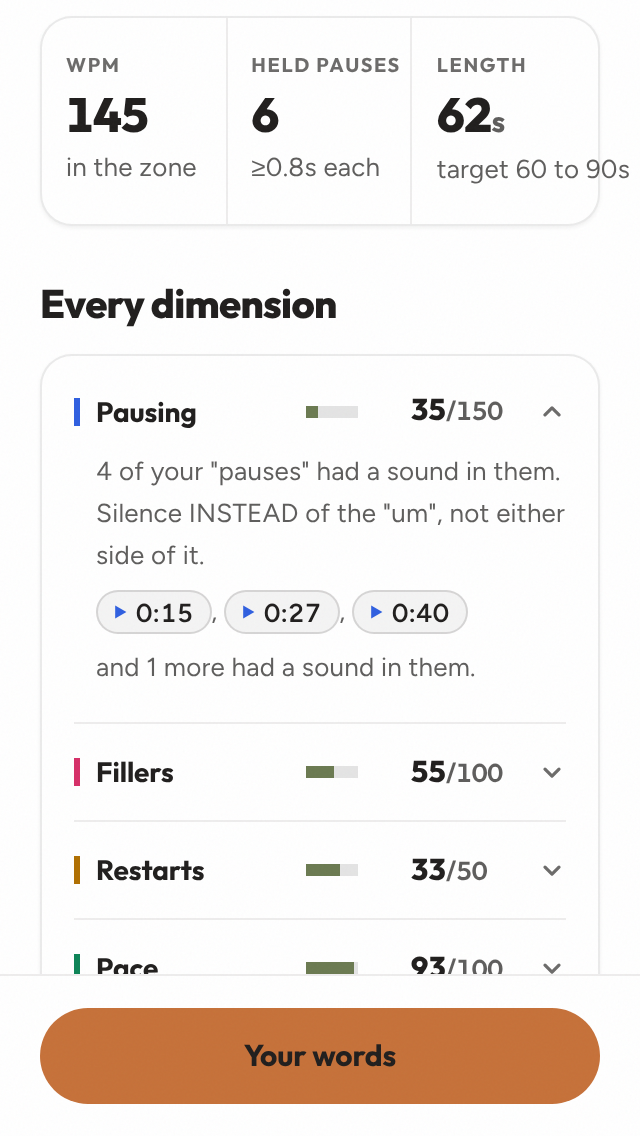
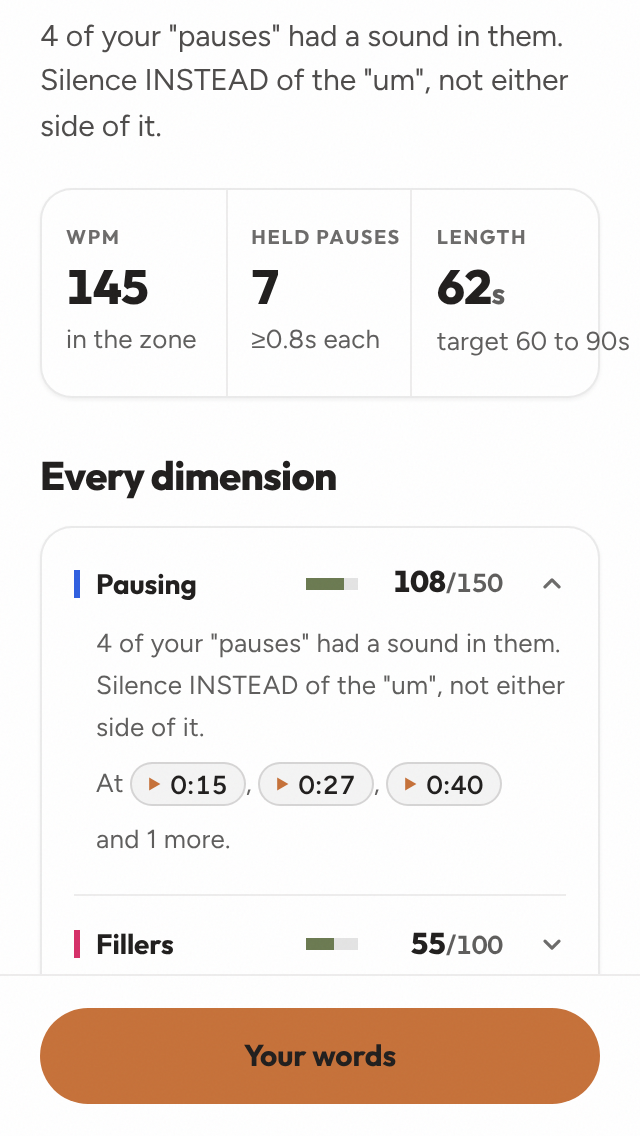
DECISIONS #424 amended for its review, and the before and after: three chips on one line at 320, 375 and 390, an 88s take's map, the glyph's colour
Claude-Session: https://claude.ai/code/session_01KQpi1wPL2sdqgKKvt94vrP

diff --git a/DECISIONS.md b/DECISIONS.md
@@ -781,7 +781,7 @@ The build had a critic and a fix round of 16 items. It passed 2478 tests and the
 
 423. 2026-11-06 · **The closing note is the take's last word** · Timothy, of the last results step: "Yes, fix it". The closing ("3 composed pauses", "Silence you chose, before a new point. That's the hard one.") stood 12px under "Records broken" in the same sage card and read as one more record. Every closing is now `ClosingNote` (`components/rep/ClosingNote.tsx`): no card, fill, edge or shadow, at a section's distance (mt-7) from the words or the records above and from Tomorrow below, centred like a sign-off under a 32x2 rule, the headline at 17/700 with its number at 24/800 in the colour of what it measured (`lib/closing-note.ts`): the trait's tone for a trait's reading (composed pauses in Pausing's, zero fillers in Fillers', words a minute in Pace's; `endNote` now names its trait), sage for an earned close (a streak, a level opened set whole as "Level 3", a game mastered, so the walk's peak keeps its weight without a card), the ink for a plain count, and the detail a sentence to a line. Records stay Moment's earned sage cards, with the cup where it applies; Moment loses its unused `emphasis`. The number reads `--tone`, the colour of the rule over it and of the trait's ring, not `--tone-ink`, whose dark value is near-white and left "3" reading as the page's ink; D05's registry names the number a measure and the rule a mark, and every tone holds 3:1 for 24px type on the ground in both themes (tested). It arrives with the step's own arrive-x, and reduced motion shows it at rest. This breaks #420's 12px for an ordinary closing on purpose, since there is no card left to stack. docs/refs has no Duolingo session end, so the references were Imprint's and Wellspoken's quiet: no container, type and one colour. Seen at 390x844 light and dark and 375x667 light for a daily take with records and without, a lesson practice, an unscored take and a Q&A round that opened level 3, with the strip into the step: docs/look/closing-card/. Ref: #420, #421, D05, DESIGN 6.
 
-424. 2026-11-07 · **The Pause row names the moments that had a sound in them, and each one plays** · Timothy, to the offer after #422: "sure". A filled pause now costs the Pause score (#422), so the row says where: under its detail, "0:15 and 0:40 had a sound in them." ("0:15 had a sound in it."; three as "0:15, 0:40 and 1:02"; past three, the first three and "and 2 more"), in the order they were said, the times as `pause-quality.ts`'s own clock writes them in each pause's note. `filledMoments` (lib/pause-quality.ts) reads them off the verdicts the take stored and showed: nothing is judged again and nothing is rescored, a stored recording's page names the moments its own stored pauses carry, and a row from before verdicts names none. A take with no filled pause reads exactly as before (its shots are pixel-identical). Each time is a chip that plays the take from a second before its pause to a second after it ends (`MOMENT_LEAD_S`, `MOMENT_TAIL_S`), and again stops it; while it plays its glyph is pause and its edge takes the tone. Playback is one element: the take's `<audio>` moved out of Hear it back into `useTakeAudio` (components/TakeAudio.tsx), held by the screen (the results walk, a stored recording, an upload), so the scrubber's key and chips, a word's "Said at" (#411) and the moments all play through it, a new play replaces the last, and leaving a step stops it, as leaving the words step always did; the scrubber follows the element's own play and pause events, so its key turns back when a moment stops itself. With no audio (a stored recording without its link, an upload not kept, a file that fails to load or decode) the times are plain semibold text, never dead buttons. The chip is Hear it back's chip grammar set in a sentence (surface, edge, ink, the play glyph in Pausing's tone; no terracotta fill, no sage), a 22px pill inside a 44px button whose padding the negative margins take back, so the line keeps its height and the text its size; the focus ring and the press are drawn on the pill, reduced motion drops the press's scale. A list's comma stays with its time and "and 1 more" holds together, balanced, so 320 breaks "0:15, 0:27, 0:40" over "and 1 more had a sound in them." Name: "Play 0:15, a pause with a sound in it", a toggle. Checked by ear in Chromium: on a stored take 0:15 (15.3s, 1.1s long) played from 14.3 and stopped at 17.4; 0:40 (40.2s, 1.4s) from 39.2 to 42.8; on a live 20s take 0:04 from 3.6 to 6.7, a step change mid-moment paused it, and Hear it back then played and seeked the same element (one `<audio>` on the page throughout); the upload page likewise. Seen at 390x844 light and dark and 375x667 light with two and four filled pauses, 320x568 with four, none, and a stored recording with audio, without it and with a broken file: docs/look/pause-moments/. Ref: #120, #121, #406, #411, #422.
+424. 2026-11-07 · **The Pause row names the moments that had a sound in them, and each one plays** · Timothy, to the offer after #422: "sure". A filled pause now costs the Pause score (#422), so the row says where: under its detail, "0:15 and 0:40 had a sound in them." ("0:15 had a sound in it."; three as "0:15, 0:40 and 1:02"; past three, the first three and "and 2 more"), in the order they were said, the times as `pause-quality.ts`'s own clock writes them in each pause's note. Where the detail above is the live results' filled headline, which already counts them ("2 of your "pauses" had a sound in them."), the row says only where, "At 0:15 and 0:40." (`saysFilled`), so it never says "had a sound in" twice; a stored recording's counts line and the dead-air headline keep the whole sentence. `filledMoments` (lib/pause-quality.ts) reads them off the verdicts the take stored and showed: nothing is judged again and nothing is rescored, a stored recording's page names the moments its own stored pauses carry, and a row from before verdicts names none. A take with no filled pause reads exactly as before (its shots are pixel-identical). Each time is a chip that plays the take from a second before its pause to a second after it ends (`MOMENT_LEAD_S`, `MOMENT_TAIL_S`), and again stops it; while it plays its glyph is pause and its edge turns ink. Playback is one element: the take's `<audio>` moved out of Hear it back into `useTakeAudio` (components/TakeAudio.tsx), held by the screen (the results walk, a stored recording, an upload), so the scrubber's key and chips, a word's "Said at" (#411) and the moments all play through it, a new play replaces the last, any other player on the screen gives way to a moment and stops the take when it plays itself (a Premium take's Playback video carries the take's sound on the same step), and leaving a step stops it, as leaving the words step always did; the scrubber follows the element's own play and pause events, so its key turns back when a moment stops itself. With no audio (a stored recording without its link, an upload not kept, a file that fails to load or decode) the times are plain semibold text, never dead buttons. The chip is Hear it back's chip grammar set in a sentence (surface, edge, ink, the play glyph in the tap's terracotta like Hear it back's key and filler chips; no terracotta fill, no sage, no trait tone), a 22px pill inside a 44px button whose padding the negative margins take back, so the line keeps its height and the text its size; the focus ring and the press are drawn on the pill, reduced motion drops the press's scale. The run of times and the words between them never breaks ("0:15, 0:27 and 0:40", about 210px against 245 at 320), so the chips share one line and two 44px targets never stack; the line breaks after them, balanced, and "and 1 more" holds together. The pause map above keeps every held pause the row can name: past its 48 marks, speech ticks thin across the take and then beats fold into speech, where it kept the first 48 and lost a long take's tail. Name: "Play 0:15, a pause with a sound in it", a toggle. Checked by ear in Chromium: on a stored take 0:15 (15.3s, 1.1s long) played from 14.3 and stopped at 17.4; 0:40 (40.2s, 1.4s) from 39.2 to 42.8; on a live 20s take 0:04 from 3.6 to 6.7, a step change mid-moment paused it, and Hear it back then played and seeked the same element (one `<audio>` on the page throughout); the upload page likewise. Seen at 390x844 light and dark with two, three and four filled pauses, 375x667 and 320x568 light with two, three and four, an 88s take with 34 gaps, none, and a stored recording with audio, without it and with a broken file: docs/look/pause-moments/ (the review's before shots are review-before-*). Review, 7 Nov: six findings (the video and a chip sounding at once, the map losing a long take's tail, the playback side untested, three chips stacking their targets, the row saying it twice, the glyph in the tone), fixed as written here, with lib/take-audio.test.ts, lib/pause-row.test.ts and lib/pause-map.test.ts, and scripts/look-pause-moments.mjs probing the targets, the words, the colour and the video in Chromium. Ref: #120, #121, #406, #411, #422.
 
 ## Open queue (research-once, decide, move up)
 - Elephant mascot: Timothy liked a tester's idea (an orange elephant, big ears, listening) to replace Demos the red panda; later. A designer (Eugene) is quoting a Rive-rigged mascot.

diff --git a/STATE.md b/STATE.md
@@ -60,7 +60,7 @@ Five tabs since #275: Today `/`, Lessons `/lessons`, Practice `/games`, Log `/hi
 - **Log**: the score on the stage (#391; the deep-sage card retired) and both tables, its skeleton at the landed row heights. A lesson waiting to be logged has its own Go in the Index column where its number will land, the secondary button, all three alike; it goes through the unit's teaching screen with `?lesson=` when intros are on, and there is no Start under the table (#394); a stored recording `/rep/[id]` opens on its own header, names its lesson, and tells a failed read from a missing row.
 - **You**: the identity on the stage (#391), Demos in the pose bought and worn in the Shop, proven from the coin ledger, hello otherwise; a save in flight holds the device's pose for up to 30s (`ethos.pose.pending`, #395), name, Level, XP bar, three bare stat columns, the plan row with #232's gate: "Pace Control opens in N stars"), a gear for Settings, the trait rows, the lexicon in Variety's tone, Earned, Day 1 vs now, the Premium door. One scroll (#344).
 - **Settings** is an `.inset-group` list: the reminder as a switch over a 3x2 hour grid in the segmented grammar (#349), the theme on `Segmented`, About, Privacy and Terms as `?from=settings` doors. **Shop**: a bare coin balance, 56px art slots that draw each pose as You wears it, gold price coins, "Wear it on You" and "On You" (#395).
-- **The recording loop** (#301 to #304): `/rep` idle is the topic card (full-body Demos on its edge), one do-line, three tip tiles, Voice/Video on `Segmented`, then Record; BackLink only while idle. Scoring is `components/rep/ScoringStage.tsx`, recording shows `DemosHears`. Results (#347): a header naming what was practised (from the recording's config), the score as one centred column (Stars, the 72px number, one delta, one caption), Demos speaking from `SpeechBubble` beside the speaking pose, sage dimension bars with trait swatches, the tap in `FooterShelf`. The Pause row names the pauses the take judged filled ("0:15 and 0:40 had a sound in them.", `filledMoments`), each time a chip that plays the take a second either side of its pause, plain text where there is no audio (#424); the take's one `<audio>` is `useTakeAudio` (`components/TakeAudio.tsx`), held by the screen and shared by Hear it back, "Said at" and the moments. The last step's records are earned sage cards, and the walk ends on the closing note (#423): no card, centred under a short rule, its number in the trait's tone or in sage when earned.
+- **The recording loop** (#301 to #304): `/rep` idle is the topic card (full-body Demos on its edge), one do-line, three tip tiles, Voice/Video on `Segmented`, then Record; BackLink only while idle. Scoring is `components/rep/ScoringStage.tsx`, recording shows `DemosHears`. Results (#347): a header naming what was practised (from the recording's config), the score as one centred column (Stars, the 72px number, one delta, one caption), Demos speaking from `SpeechBubble` beside the speaking pose, sage dimension bars with trait swatches, the tap in `FooterShelf`. The Pause row names the pauses the take judged filled ("0:15 and 0:40 had a sound in them.", `filledMoments`; "At 0:15 and 0:40." under the live headline that already counts them), each time a chip that plays the take a second either side of its pause, the times on one unbroken line, plain text where there is no audio (#424); the take's one `<audio>` is `useTakeAudio` (`components/TakeAudio.tsx`), held by the screen and shared by Hear it back, "Said at" and the moments, and any other player on the screen (a Premium take's Playback video) gives way to it and it to them. The last step's records are earned sage cards, and the walk ends on the closing note (#423): no card, centred under a short rule, its number in the trait's tone or in sage when earned.
 - **The paywall** is a plum sheet (`.card-premium`, one PremiumMark, no sage, #343) selling one plan, the price ladder (#377, #385): under the benefits, "Your price drops every month you stay", a readout (A$ and the price at `num-l`, rolling) over the Stair in slider mode (seven steps from zero, real month labels, no Paw: the lit step shows the month picked, the floor bleeding off the sheet's edge), one caption carrying the renewal and the reset rule, then "Start at A$12.99" in a fixed tap shelf. The grabber, mark and headline stand in a head that never scrolls on screens 640px or taller; under 640 only the grabber strip stays (`lib/paywall-head.ts`). A downward swipe closes it from anywhere not mid-scroll (#394). Checkout is live only with `NEXT_PUBLIC_CHECKOUT_OPEN=1`; until then the tap opens the invite code. An anonymous session gets the account ask, and sign-up or sign-in brings it back to the sheet (`?paywall=1`, `lib/use-paywall-return.ts`). The spec is `docs/ladder-spec.md`.
 - **The plan** (#385, #386): on You, a subscriber's plan is a neutral `.card` in the Premium door's place (this month's price, the next with its date, the sm Stair, the months to the floor), one state each for active, floor, ending, past due, unpaid, pending and unknown; it opens the manage sheet, neutral and raised, where cancel is one tap and a confirm, and Keep my plan undoes it. Settings carries the same sheet behind a Manage plan row. Two moments, each with Demos: the return from Checkout (`?checkout=done`, one sync) and the price drop, a plum sheet on Today or You once per new month on this device (`ethos.ladder.seen`), the Paw hopping down a step as the price rolls.
 - **Auth** (`/signin`, `/signup`, `/auth/forgot`, `/auth/reset`): one shell on ScreenHeader, the form in one card at hero padding, Google a raised key, "Forgot?" on the password row (#350). Google sign-in (#307): `lib/use-oauth-return.ts` gives the button back on any return; `/auth/callback` tells a cancel, a taken account and an expired link apart, and its Demos is DemosArt celebrate at 140.
